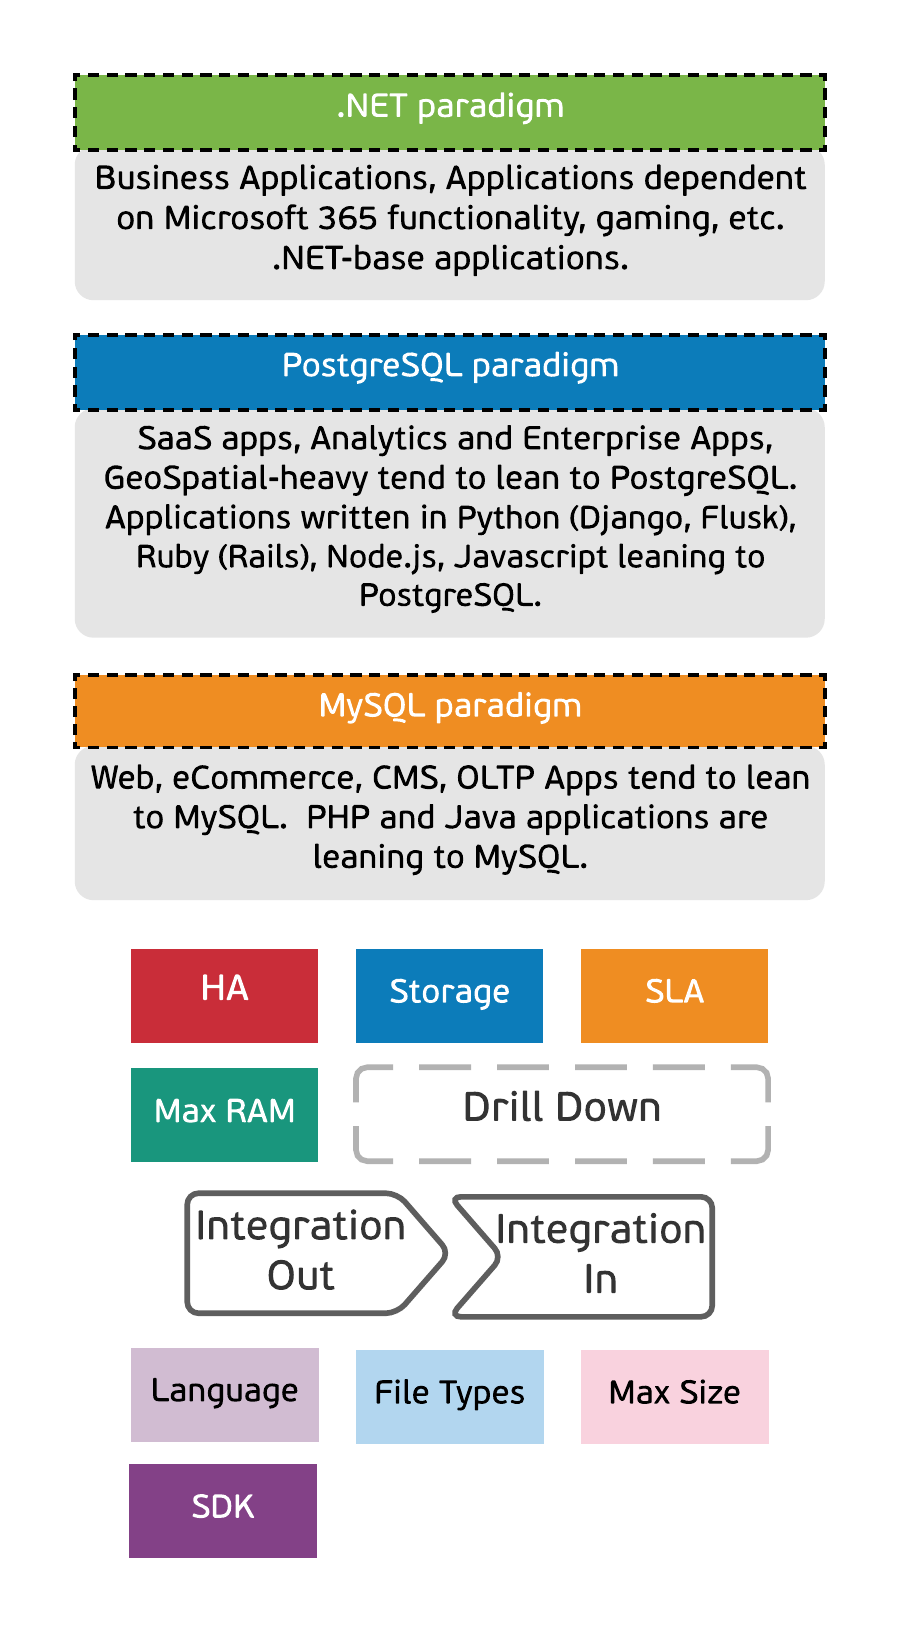
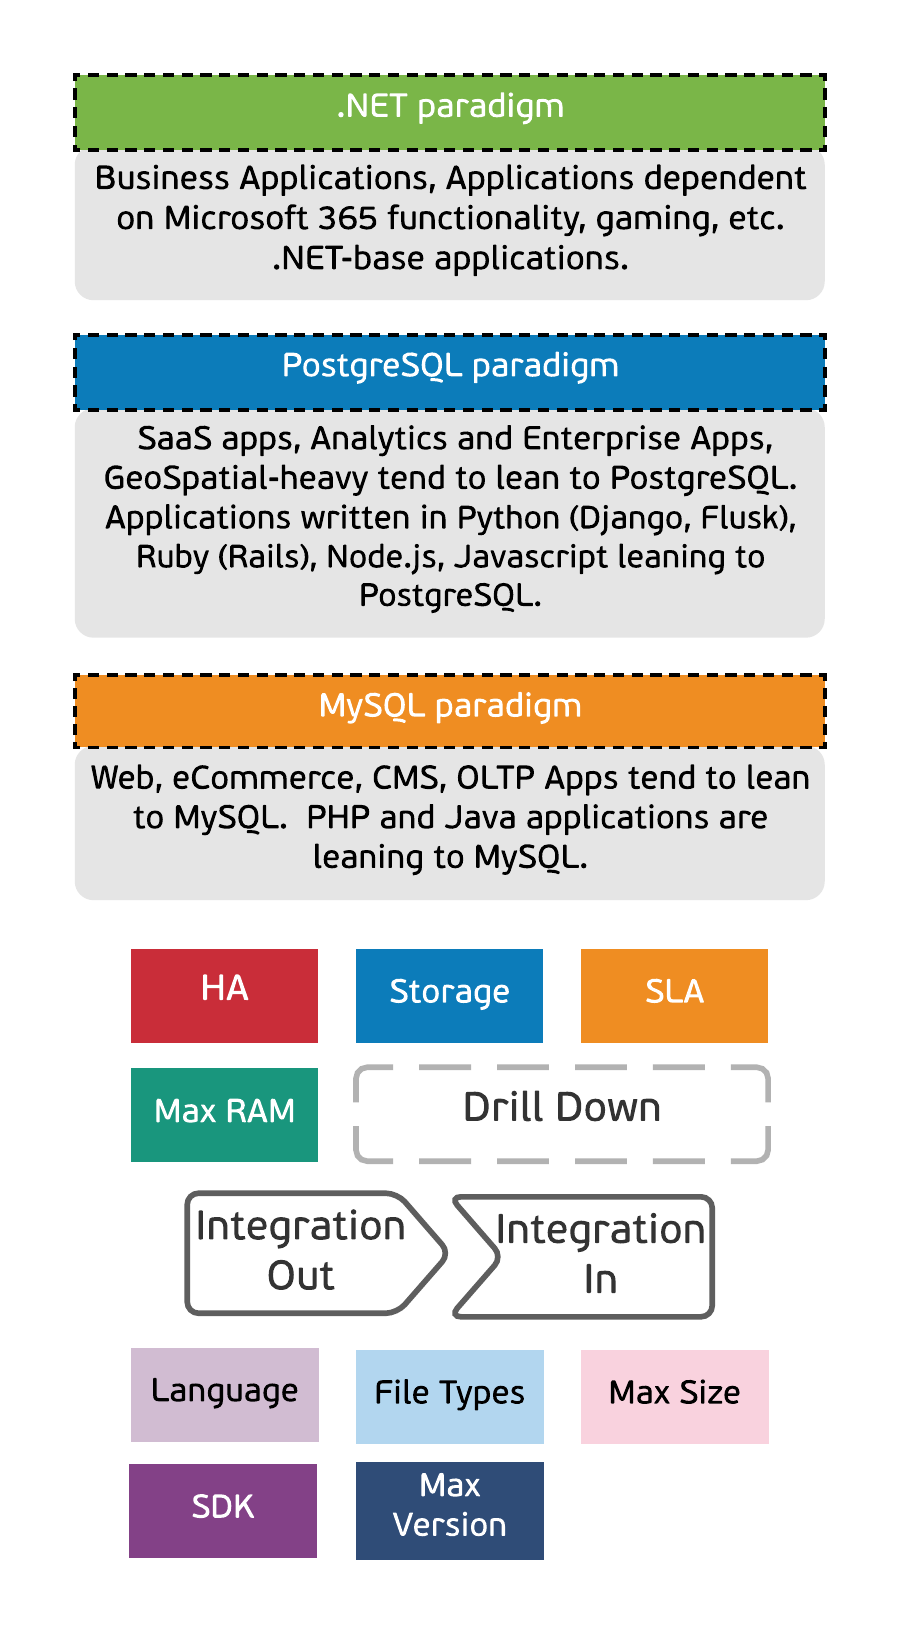
Max supported versions functionality added

diff --git a/html/forlang.html b/html/forlang.html
@@ -158,6 +158,7 @@ $(document).ready(function(){
         <area shape="rect" coords="4096, 846, 4204, 903" alt="Hyperscale Perl" href="https://www.postgresql.org/docs/11/plperl-funcs.html" />
         <area shape="rect" coords="4097, 786, 4204, 843" alt="Hyperscale Python" href="https://www.postgresql.org/docs/11/plpython.html" />
         <area shape="rect" coords="4097, 727, 4204, 780" alt="Hyperscale pgPLSQL"  href="https://www.postgresql.org/docs/11/plpgsql.html" />
+        <area shape="rect" coords="4299, 698, 4404, 752" alt="PostgreSQL Hyperscale Version" href="https://docs.microsoft.com/en-us/azure/postgresql/concepts-supported-versions" />
 
         <area shape="rect" coords="4504, 928, 4607, 983" alt="SQL R" href="https://docs.microsoft.com/en-us/azure/architecture/data-guide/technology-choices/r-developers-guide#azure-sql-database" />
         <area shape="rect" coords="4504, 872, 4607, 927" alt="SQL Go" href="https://docs.microsoft.com/en-us/azure/developer/go/azure-sdk-sql-database-samples" />
@@ -173,9 +174,12 @@ $(document).ready(function(){
         <area shape="rect" coords="4818, 848, 4924, 905" alt="PostgreSQL Perl" href="https://www.postgresql.org/docs/11/plperl-funcs.html" />
         <area shape="rect" coords="4818, 789, 4923, 842" alt="PostgreSQL Python" href="https://www.postgresql.org/docs/11/plpython.html" />
         <area shape="rect" coords="4818, 727, 4923, 783" alt="PostgreSQL pgPLSQL" href="https://www.postgresql.org/docs/11/plpgsql.html" />
-
+        <area shape="rect" coords="5015, 693, 5122, 751" alt="PostgreSQL Version" href="https://docs.microsoft.com/en-us/azure/postgresql/concepts-supported-versions" />
+       
         <area shape="rect" coords="5458, 725, 5562, 780" alt="MySQL SQL" href="https://dev.mysql.com/doc/refman/8.0/en/" />
         <area shape="rect" coords="5139, 727, 5241, 780" alt="MariaDB SQL" href="https://mariadb.com/kb/en/sql-statements/" />
+        <area shape="rect" coords="5664, 698, 5770, 751" alt="MySQL Version" href="https://docs.microsoft.com/en-us/azure/mysql/overview" />
+        <area shape="rect" coords="5341, 699, 5445, 753" alt="MariaDB Version" href="https://docs.microsoft.com/en-us/azure/mariadb/concepts-supported-versions" />
 
         <area shape="rect" coords="6026, 931, 6129, 983" alt="Redis String Size" href="https://redis.io/topics/data-types" />
         <area shape="rect" coords="6024, 818, 6131, 872" alt="Redis File Export" href="https://docs.microsoft.com/en-us/azure/azure-cache-for-redis/cache-how-to-import-export-data" />

diff --git a/ReleaseNotes.md b/ReleaseNotes.md
@@ -4,5 +4,8 @@ UPD1: 17.10.2020
 - Link for Azure SQL Database Distributed Transactions
 - Links to feature differences between Cosmos DB and Cassandra / Mongo added (just click on the correspondent DB logo)
 
+UPD2: 24.10.2020
+- Max supported versions added for PostgreSQL, MySQL, MariaDB
+
 TODO:
 - Proper Links for DevView (almost done - only Spark left)
